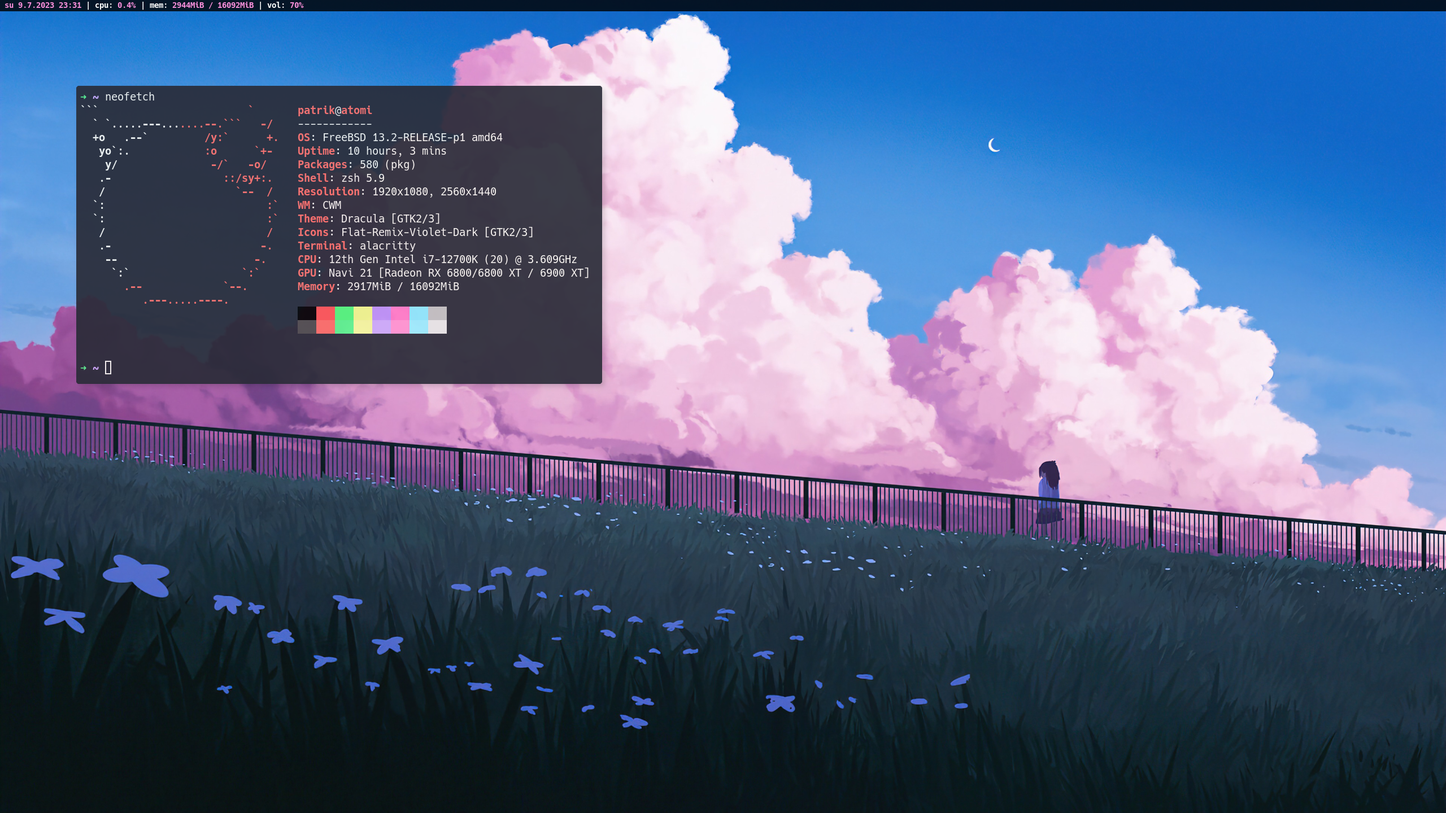
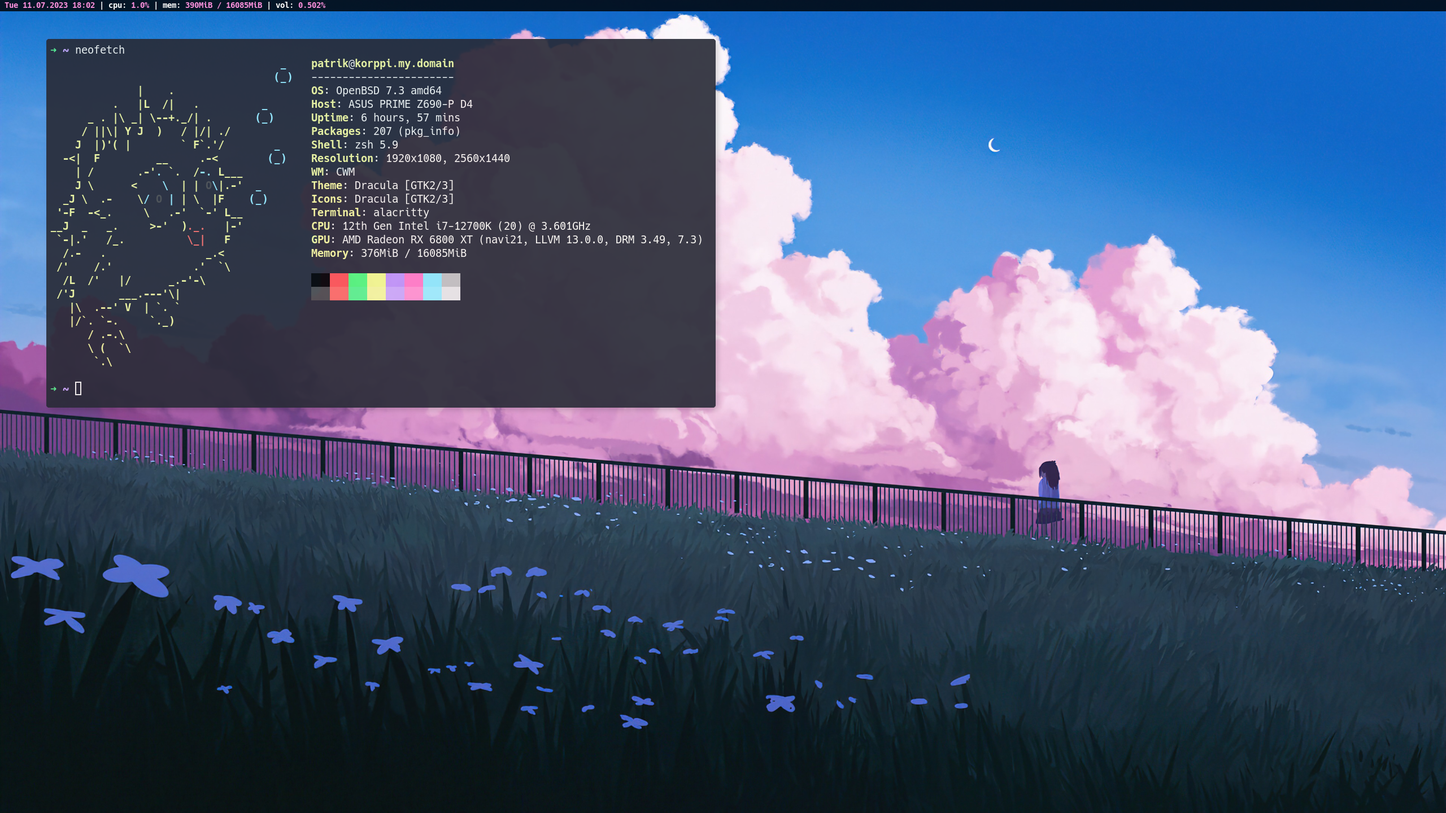
switch to OpenBSD configs

Changed region(s): [[0.0, 0.0, 0.5, 0.5], [0.125, 0.1562, 0.1562, 0.1875], [0.0938, 0.3438, 0.125, 0.375]]

diff --git a/README.md b/README.md
@@ -1,16 +1,16 @@
 # dotfiles
-My FreeBSD dotfiles   
+My OpenBSD dotfiles   
 
 ![Rice](https://raw.githubusercontent.com/Alpakka31/dotfiles/master/rice.png)
 
 ## Programs
 * CWM
-* musicpd
+* mpd
 * ncmpcpp
 * zsh (oh-my-zsh)
 * alacritty
-* lemonbar
-* nvim
+* lemonbar-xft
+* neovim
 * picom
 * rofi
 
